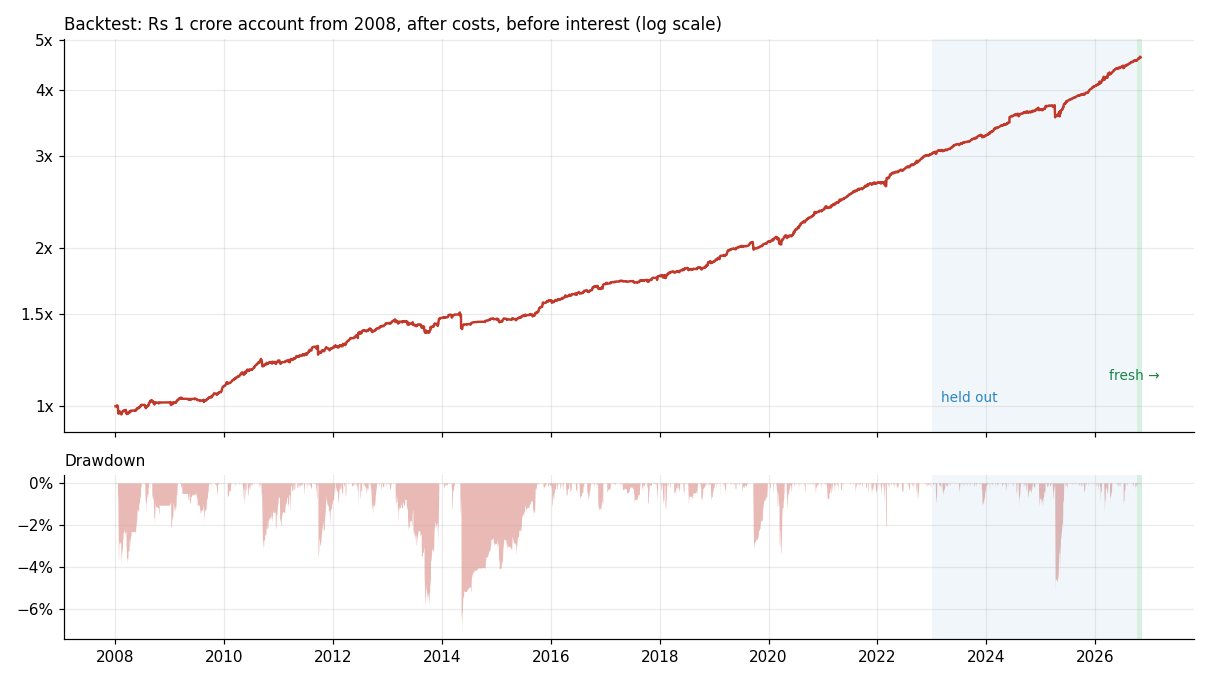
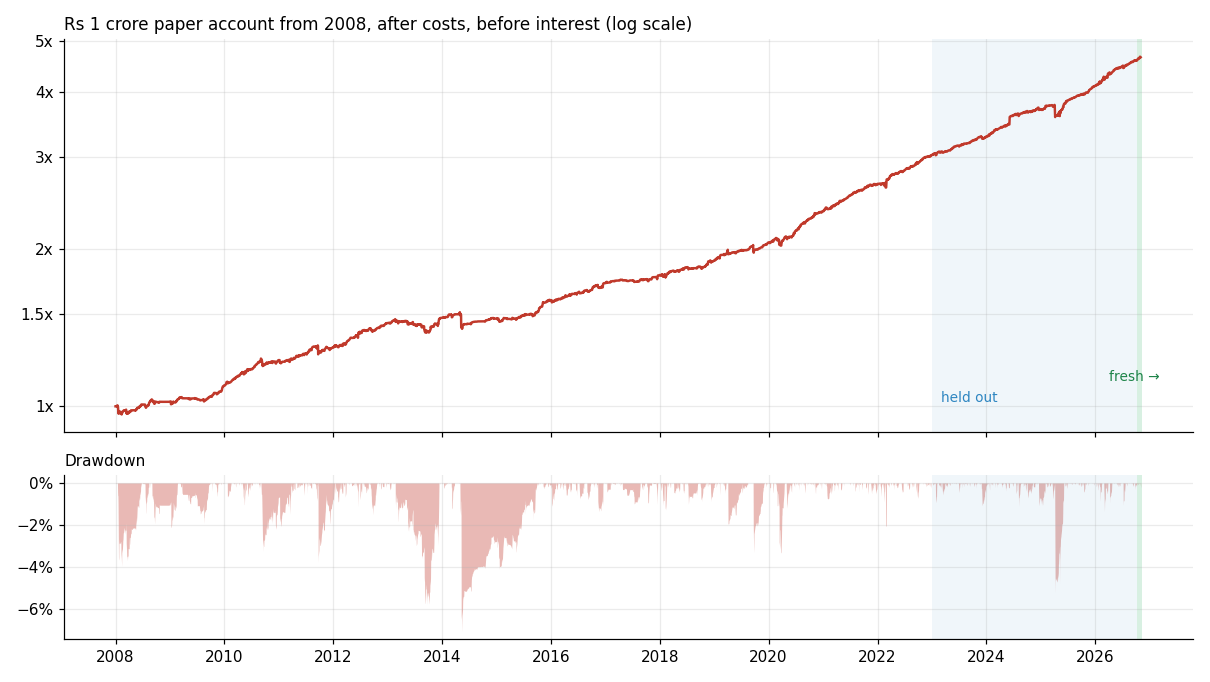
README: live scoreboard, how it works, corrected results (every day counted, calendar-time rates), year by year, monthly returns, worst days, verification

diff --git a/README.md b/README.md
@@ -1,75 +1,143 @@
 # NIFTY options: a systematic forward test
 
-An automated system that sells NIFTY index options every trading afternoon and hedges the book with NIFTY futures. It is
-paper-traded on ₹1 crore with every cost a real account pays. The method is private; this repository publishes its
-results, every day, with a fingerprint that proves each day's book was fixed before the market closed.
+**An automated system that sells NIFTY index options every afternoon, hedged with futures, and proves every decision in
+public before the market closes.**
 
-**Frozen since 5 November 2026.** Nothing in the system learns from results or is refitted: each day it only reads that
-day's NSE prices. Any change will be announced here, with its date, before it takes effect.
+> 18 of 19 calendar years positive (2008–2026) · 83% of months positive · Sharpe 2.02 in development, 2.67 held out · worst
+> drawdown −7.1% since 2008 · live since 5 November 2026, every day's book fingerprinted here before the close
 
-## How it runs
+## Live
+
+<!-- live:start -->
+| Live since | Days valued | Account (paper, Rs) | Return since go-live | Last result | Latest fingerprint |
+|---|---|---|---|---|---|
+| 05 Nov 2026 | 0 | 10,000,000 | +0.00% | first result tomorrow | `ef107d7342b7...` decided 2026-11-05 at 15:14:07 IST |
+
+*Updated automatically by each day's run. Failed days: 0. Every row: [records/daily.csv](records/daily.csv).*
+<!-- live:end -->
+
+The method is private; this repository publishes its results every day, with a fingerprint that proves each day's book
+was fixed before the market closed. **Frozen since 5 November 2026:** nothing in the system learns from results or is
+refitted; each day it only reads that day's NSE prices. Any change will be announced here, with its date, before it
+takes effect.
+
+![backtest](records/backtest.png)
+
+## How it works
+
+```mermaid
+flowchart LR
+    A["Model inputs<br/>NSE prices only"] --> B["Model<br/>tomorrow's market"]
+    B --> C["Option engine<br/>what every option could be worth"]
+    C --> D["Optimizer<br/>the book to hold tonight"]
+    D --> E["Book<br/>fingerprinted before 15:30"]
+```
 
 - **Every trading day from 15:13 IST** it reads NSE's public option chain, decides the day's book and publishes the
   book's SHA-256 fingerprint here, before the close (15:30). A run that fails (a data or network problem) is retried
   every 2 minutes, up to 5 times.
-- **The next day** it values that book at the same time on NSE's quotes, records the day's result after costs and
-  rebalances.
+- **The next day** it values that book at the same time on NSE's quotes, records the result after costs, and rebalances.
 - **Costs:** sales at the bid and purchases at the ask, exchange and SEBI charges, STT, stamp duty, GST, and the futures
-  hedge's own costs. Fills are limited to a share of the traded volume. Brokerage is not included (a firm trading on
-  its own exchange membership pays none).
-- **No discretion:** nothing is changed by hand. A day the system could not run is shown as a failed run, not filled
-  in.
+  hedge's own costs. Fills are limited to a share of each option's traded volume. Brokerage is not included (a firm
+  trading on its own exchange membership pays none).
+- **No discretion:** nothing is changed by hand. A day the system could not run is shown as a failed run, not filled in.
 
 ## Results
 
-Trading return on capital after costs, before any interest on the cash.
+A ₹1 crore paper account run day by day: compounding, positions carried from day to day, partial fills, margin checked
+on the book after each day's trades (margin × 1.25 within capital), futures hedging every day. After costs, before
+interest on the cash; every day counted.
 
 | Period | Basis | Return / yr | Sharpe | Max drawdown |
 |---|---|---|---|---|
-| 2008 - 2022, development | backtest on NSE closing prices | +8.1% | 2.07 | -7.1% |
-| 2023 - Oct 2026, held out (not used for any design choice) | backtest on NSE closing prices | +11.5% | 2.65 | -5.2% |
-| 7 Oct - 2 Nov 2026, fresh (data never seen in development; the system frozen) | NSE closing prices | +1.32% in 18 sessions | too short to annualise | -0.2% |
-| From go-live | live, 15:15 IST quotes | see below | | |
+| 2008 – 2022, development | backtest on NSE closing prices | +7.7% | 2.02 | −7.1% |
+| 2023 – Oct 2026, held out (not used for any design choice) | backtest on NSE closing prices | +11.7% | 2.67 | −5.2% |
+| 7 Oct – 2 Nov 2026, fresh (data never seen in development; the system frozen) | NSE closing prices | +1.32% in 18 sessions | too short to annualise | −0.2% |
+| From 5 Nov 2026, live | NSE quotes at 15:15 IST | see **Live** above | | |
 
-The backtests run one persistent account from 2008: compounding capital, positions carried from day to day, partial
-fills, margin checked on the book after each day's trades (margin x 1.25 within capital) and futures hedging every
-day.
+### Year by year
 
-![backtest](records/backtest.png)
+| Year | Return | Sharpe | Max drawdown | | Year | Return | Sharpe | Max drawdown |
+|---|---|---|---|---|---|---|---|---|
+| 2008 | +2.0% | 0.49 | −3.9% | | 2018 | +6.6% | 2.27 | −1.3% |
+| 2009 | +7.5% | 2.85 | −1.9% | | 2019 | +8.5% | 2.24 | −3.3% |
+| 2010 | +11.8% | 3.10 | −3.3% | | 2020 | +14.8% | 3.44 | −3.3% |
+| 2011 | +5.8% | 1.20 | −3.8% | | 2021 | +12.8% | 5.00 | −0.8% |
+| 2012 | +11.3% | 2.96 | −1.5% | | 2022 | +13.4% | 3.07 | −2.1% |
+| 2013 | +2.4% | 0.57 | −5.8% | | 2023 * | +8.5% | 4.34 | −1.1% |
+| 2014 | −0.4% | −0.04 | −7.1% | | 2024 * | +12.9% | 3.64 | −1.1% |
+| 2015 | +8.5% | 3.08 | −1.6% | | 2025 * | +10.8% | 1.63 | −5.2% |
+| 2016 | +7.8% | 2.73 | −1.4% | | 2026 * | +13.4% | 4.21 | −1.4% |
+| 2017 | +3.4% | 1.76 | −1.0% | |  | | | |
 
-The live account from go-live (updated every day):
+\* held out. 2026 runs to 2 November.
 
-![live account](records/equity.png)
+![monthly returns](records/monthly.png)
 
-## Live record
+### On the market's worst days
 
-`records/daily.csv`, one row per trading day: the date the book was decided, its fingerprint, the date it was valued,
-its result (% of capital, after every cost), the options' trading costs within that result, the share of capital used
-as margin, the account's value, and the day's status: decided, valued, run_failed (no book that day: an execution
-problem after 5 attempts) or value_failed (the book could not be valued the next day). A book's result is filled in the
-next trading day, when it is valued.
+| Day | Event | NIFTY | Account |
+|---|---|---|---|
+| 2008-01-21 | Global sell-off | −8.70% | −2.58% |
+| 2008-10-24 | Financial crisis | −12.20% | −0.03% |
+| 2011-09-22 | Euro-debt sell-off | −4.08% | −3.66% |
+| 2015-08-24 | China devaluation crash | −5.92% | −0.13% (over 21–25 Aug) |
+| 2016-11-09 | Demonetisation + US election | −1.31% | +0.27% |
+| 2019-09-20 | Corporate tax cut (+5%) | +5.32% | −2.01% |
+| 2020-03-12 | COVID crash | −8.30% | −1.95% |
+| 2020-03-23 | COVID crash, lower circuit day | −12.98% | −1.04% |
+| 2022-02-24 | Russia invades Ukraine | −4.78% | −2.09% |
+| 2024-06-04 | Election results | −5.93% | −0.01% |
+| 2025-04-07 | US tariff crash | −3.24% | −5.11% |
+| COVID crash, 20 Feb − 23 Mar 2020 | whole period | −37.2% | −3.12% |
+| Financial crisis, Sep − Nov 2008 | whole period | −36.8% | −0.81% |
+
+Losses are shown as they happened. The worst days since 2008 are 9 May 2014 (−5.2%) and 7 April 2025 (−5.1%). Sudden
+large moves are the risk of selling options, and they are in every number above.
+
+## How you can check it
+
+```mermaid
+flowchart LR
+    A["15:13<br/>book decided"] --> B["before 15:30<br/>fingerprint pushed here"]
+    B --> C["next day<br/>result published"]
+    C --> D["on request<br/>book shown, fingerprint checked"]
+```
+
+Each afternoon the system pushes the fingerprint (SHA-256) of that day's exact book before the close. The book carries a
+random nonce, so its fingerprint cannot be matched by trying candidate books. GitHub records the time of every push on
+its own servers: see this repository's **Activity** page (the time a commit says it was made is set by the computer
+that made it; the push time is GitHub's). The history is never rewritten: a rewrite would show there as a force push.
+On request, a day's book can be shown and checked against its fingerprint (`sha256sum book.json`).
+
+## Built to be honest
+
+- **Nothing learns from outcomes.** No part of the system is fitted to which days made or lost money.
+- **One chronology:** design choices on 2008–2022 only; 2023 – Oct 2026 held out; then a fresh period of data never seen
+  in development; then live.
+- **Real frictions:** quoted spreads, every exchange and tax charge, fills capped by traded volume, margin checked every
+  day, a futures hedge with its own costs.
+- **Every day counted:** days the account could not be valued are compounded in, not dropped.
 
 ## Why positions are not published
 
 Positions are not published, live or historical, so that the method cannot be copied or learned from its outputs. The
 fingerprints prove each day's book was fixed in advance, and any day's book can be shown privately to check it.
 
-## Verifying a day
+## Live record
 
-Each afternoon the system pushes the fingerprint (SHA-256) of that day's exact book before the close. The book itself is not
-published; it carries a random nonce, so its fingerprint cannot be matched by trying candidate books. GitHub records the
-time of every push on its own servers: see this repository's **Activity** page (the time a commit says it was made is
-set by the computer that made it; the push time is GitHub's). So each fingerprint is provably fixed before the close it
-is judged on. On request, a day's book can be shown and checked against its fingerprint
-(`sha256sum book.json`).
+`records/daily.csv`, one row per trading day: the date the book was decided, its fingerprint, the date it was valued,
+its result (% of capital, after every cost), the options' trading costs within that result, the share of capital used
+as margin, the account's value, and the day's status: decided, valued, run_failed (no book that day: an execution
+problem after 5 attempts) or value_failed (the book could not be valued the next day).
 
 ## Limits
 
 - A paper account: fills are simulated at NSE's quoted bid and ask, limited to a share of each option's traded volume,
   not executed with a broker.
 - Results are before interest on the cash and exclude brokerage.
-- The backtest uses NSE's closing prices; the live record uses NSE's quotes from about 15:15.
-- The history of this repository is never rewritten: a rewrite would show on the Activity page as a force push.
+- The backtest uses NSE's closing prices; the live record uses NSE's quotes from about 15:15. NSE publishes no F&O file
+  for two trading days (9 Oct 2013, 30 Mar 2021); the backtest values across them, as an account would.
 
 ## Not investment advice
 
